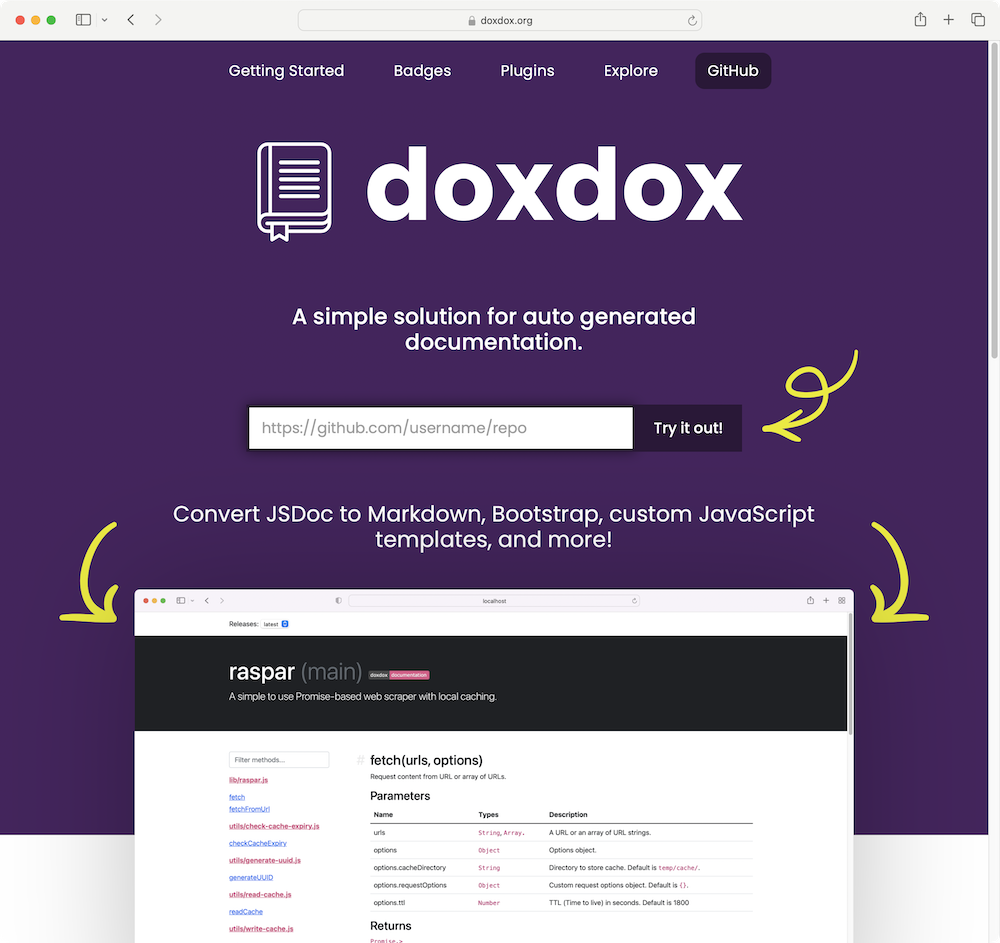
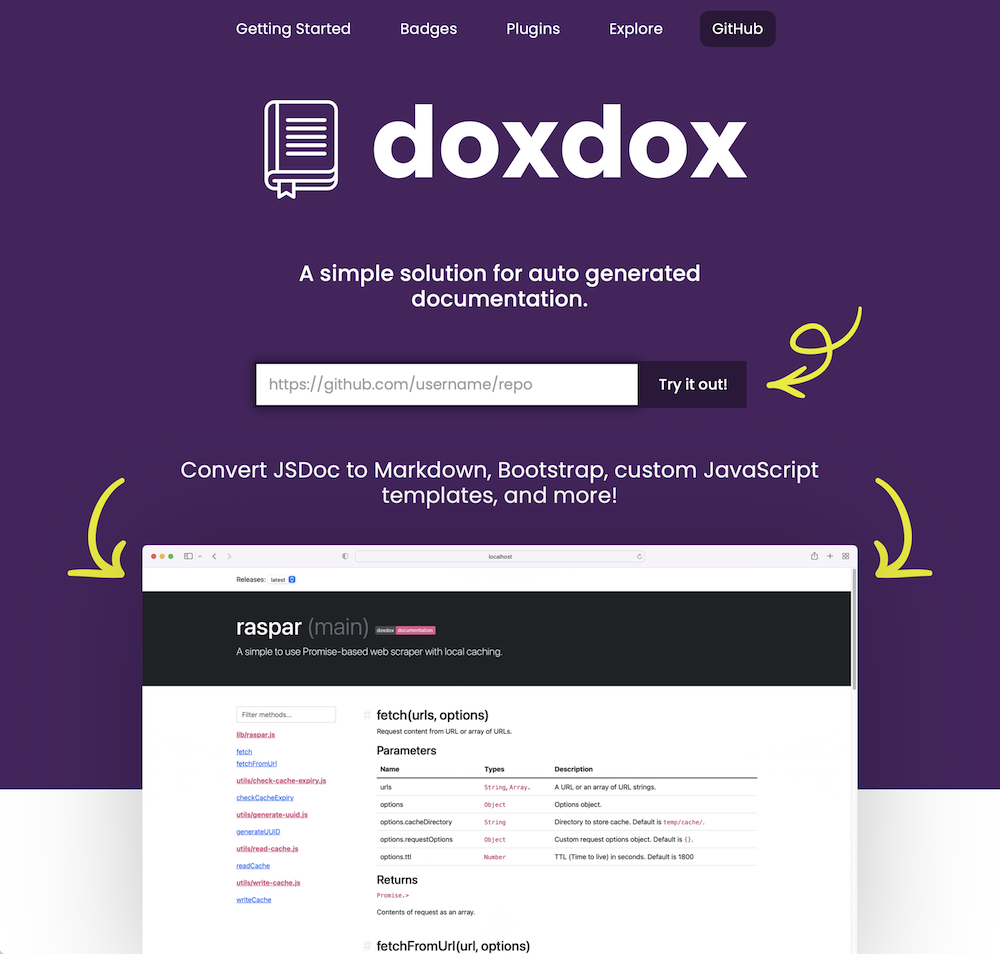
Updated project images.

diff --git a/css/styles.css b/css/styles.css
@@ -183,7 +183,7 @@ p > img {
 
 .project .project-details .button {
     text-decoration: none;
-    margin: 1rem 1rem 0 0;
+    margin: 1.5rem 1rem 0 0;
     display: inline-block;
     padding: 0.75rem 1.25rem;
     font-size: 1.3rem;
@@ -251,12 +251,21 @@ p > img {
 
 .project .project-preview img,
 .project .project-preview video {
-    width: 100%;
+    margin: 1rem;
+    width: calc(100% - 2rem);
     height: auto;
     flex: 1;
+    border-radius: 1rem;
 }
 
 @media (min-width: 70rem) {
+    .project .project-preview img,
+    .project .project-preview video {
+        margin: 0;
+        width: 100%;
+        border-radius: 0;
+    }
+
     .project .project-preview .dropshadow {
         margin-top: 2rem;
         box-shadow: -3px 10px 15px 0 rgb(0 0 0 / 0.1),
